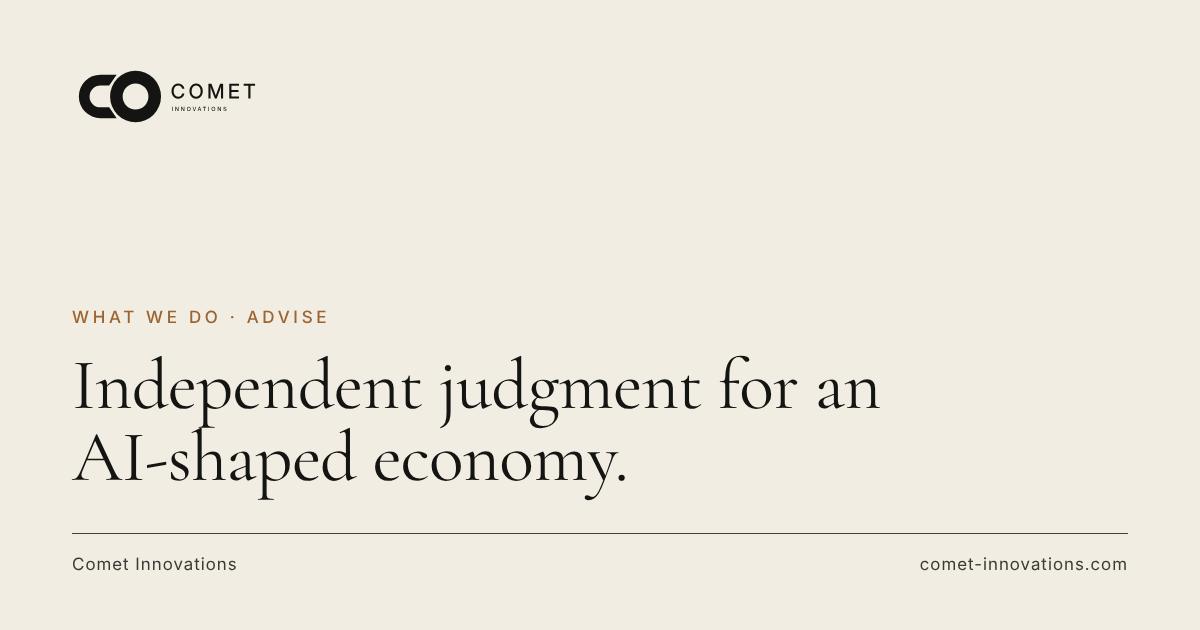
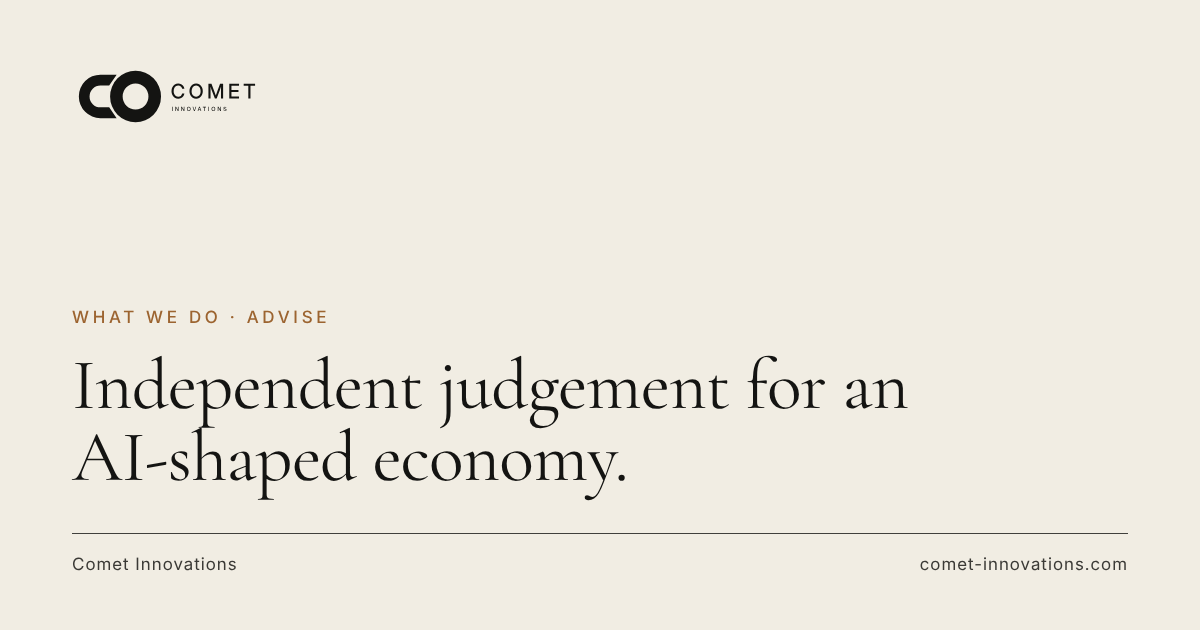
Standardise on British English across the website
- "judgment" becomes "judgement" on the homepage, What We Do and Advise
  (including the Advise share image), "percent" becomes "per cent" and
  "toward" becomes "towards" in the Insights.
- A test now fails the build on common American spellings in visible
  copy and llms.txt.
- CLAUDE.md records the site's editorial rules, starting with British
  English as standard.

Claude-Session: https://claude.ai/code/session_01S63pzjcwrUnhiZ14qCX8BA

Changed region(s): [[0.4625, 0.5429, 0.7708, 0.6635]]

diff --git a/src/pages/index.html b/src/pages/index.html
@@ -37,7 +37,7 @@
 <h2 class="section-title" id="services-title">Three ways to work with Comet.</h2>
 <p class="section-intro">Different challenges require different forms of expertise. Our three services are independently available and can be combined where the work demands it.</p>
 <div class="cards3 cards-text services">
-<article class="card reveal"><h3>Advise</h3><p class="card-lead">Independent judgment for consequential decisions.</p><p>We advise boards, investors and executive teams on the strategic and economic implications of AI.</p><p>From business model innovation and enterprise AI strategy to operating model transformation and new venture development, we help leaders understand their options, make informed choices and define the path forward.</p><p class="card-action"><a class="link" href="/advise">Explore Advisory</a></p></article>
+<article class="card reveal"><h3>Advise</h3><p class="card-lead">Independent judgement for consequential decisions.</p><p>We advise boards, investors and executive teams on the strategic and economic implications of AI.</p><p>From business model innovation and enterprise AI strategy to operating model transformation and new venture development, we help leaders understand their options, make informed choices and define the path forward.</p><p class="card-action"><a class="link" href="/advise">Explore Advisory</a></p></article>
 <article class="card reveal"><h3>Educate</h3><p class="card-lead">Develop the leaders the AI economy demands.</p><p>We design and deliver executive education experiences that help boards, executive committees and leadership teams understand AI, challenge established assumptions and strengthen strategic decision-making.</p><p>Our programmes connect emerging technology with the realities of leadership, business performance and organisational change.</p><p class="card-action"><a class="link" href="/what-we-do#educate">Explore Executive Education</a></p></article>
 <article class="card reveal"><h3>Engineer</h3><p class="card-lead">Engineering that works inside the business.</p><p>Our forward-deployed engineering approach places AI engineering expertise close to the business problem.</p><p>We work alongside client teams to design, develop, integrate and operationalise AI systems, from intelligent workflows and enterprise agents to AI-enabled products and new digital businesses.</p><p class="card-action"><a class="link" href="/what-we-do#engineer">Explore Engineering</a></p></article>
 </div>
@@ -80,7 +80,7 @@
 <p>Our approach is grounded in three principles.</p>
 <div class="principles">
 <div class="reveal"><h3>Business before technology.</h3><p>The relevance of AI is determined by the business problem, not the sophistication of the model.</p></div>
-<div class="reveal"><h3>Independence of judgment.</h3><p>We evaluate opportunities, technologies and solutions against client objectives rather than promote a predetermined platform.</p></div>
+<div class="reveal"><h3>Independence of judgement.</h3><p>We evaluate opportunities, technologies and solutions against client objectives rather than promote a predetermined platform.</p></div>
 <div class="reveal"><h3>Close to operating reality.</h3><p>Our perspective combines strategic advisory, business operating experience and applied engineering. We understand that recommendations must withstand commercial, organisational and technical constraints.</p></div>
 </div>
 </div>

diff --git a/test/site.test.js b/test/site.test.js
@@ -66,11 +66,11 @@ test('the home page uses the revised copy: three services, three markets, one fr
     'Explore Our Services', 'Start a Conversation',
     'The opportunity is bigger than technology.',
     'Three ways to work with Comet.',
-    'Independent judgment for consequential decisions.', 'Develop the leaders the AI economy demands.', 'Engineering that works inside the business.',
+    'Independent judgement for consequential decisions.', 'Develop the leaders the AI economy demands.', 'Engineering that works inside the business.',
     'Where we focus.', 'Private Equity', 'Government', 'Energy',
     'AI is changing the fundamentals of business.',
     'How do you create and capture value?', 'How should work be performed?', 'How should the organisation operate?', 'What becomes possible next?',
-    'From understanding to action.', 'Business before technology.', 'Independence of judgment.', 'Close to operating reality.',
+    'From understanding to action.', 'Business before technology.', 'Independence of judgement.', 'Close to operating reality.',
     'Thinking matters. What changes matters more.',
     'Beyond intelligent responses.',
     'Ideas for decisions that matter.',
@@ -108,7 +108,7 @@ test('What We Do presents three independent services, the framework and venture 
 test('Advise is a service page linked from the navigation, home and What We Do', () => {
   const page = text('advise.html');
   for (const line of [
-    'Independent judgment for an AI-shaped economy.',
+    'Independent judgement for an AI-shaped economy.',
     'Strategic questions, not technology prescriptions.',
     'Our advice is independent of any particular AI model, software vendor or implementation platform.',
     'AI strategy and investment priorities', 'Business model and value creation', 'Operating model transformation',
@@ -478,6 +478,15 @@ test('key concepts are defined in visible HTML, consistently', () => {
   assert.ok(/Agentic AI describes AI systems/.test(text('work-redesign.html')));
   for (const term of ['Corporate innovation', 'Venture validation', 'Venture building', 'Venture acceleration']) assert.ok(html('venture-building.html').includes(`<dt>${term}</dt>`), term);
   for (const term of ['Task automation', 'Workflow redesign', 'AI agents and agentic AI', 'Workforce transformation', 'Capability building']) assert.ok(html('work-redesign.html').includes(`<dt>${term}</dt>`), term);
+});
+
+test('British English is used throughout the visible copy', () => {
+  const american = /\b(judgment|judgments|percent|toward|afterward|color|colors|center|centered|behavior|behaviors|favor|favorite|honor|labor|analyze|analyzed|catalog|defense|fulfill|enroll|modeling|modeled|traveled|organizational|organization|organizations|optimize|optimized|optimizing|prioritize|prioritized|prioritizing|recognize|recognized|realize|realized|utilize|utilized|specialize|specialized|standardize|minimize|maximize|summarize|emphasize|program|programs)\b/i;
+  for (const page of pages) {
+    const match = text(page).match(american);
+    assert.equal(match, null, `${page}: "${match?.[0]}"`);
+  }
+  assert.doesNotMatch(fs.readFileSync(path.join(out, 'llms.txt'), 'utf8'), american);
 });
 
 test('no conflicting company descriptions or unsupported superlatives', () => {

diff --git a/src/pages/advise.html b/src/pages/advise.html
@@ -1,8 +1,8 @@
-<!--meta {"title": "AI Strategy & Advisory Services | Comet Innovations", "description": "Independent, senior-led AI advisory for boards and executives: AI strategy, business models, operating models, governance and corporate venture strategy.", "heading": "Advise", "breadcrumb": "Advise", "parent": {"name": "What we do", "path": "/what-we-do"}, "intent": {"primary": "AI strategy consulting", "secondary": ["AI advisory services", "independent AI advisory", "AI governance advisory", "AI investment strategy"]}, "ogImage": "/images/og/advise.png", "ogHeadline": "Independent judgment for an AI-shaped economy.", "updated": "2026-10-25", "schema": ["service"], "service": {"name": "AI strategy and advisory", "serviceType": "AI strategy consulting", "description": "Independent, senior-led advisory for boards and executive teams on AI strategy and investment priorities, business model and value creation, operating model transformation, AI governance, corporate venture strategy and portfolio transformation."}} -->
+<!--meta {"title": "AI Strategy & Advisory Services | Comet Innovations", "description": "Independent, senior-led AI advisory for boards and executives: AI strategy, business models, operating models, governance and corporate venture strategy.", "heading": "Advise", "breadcrumb": "Advise", "parent": {"name": "What we do", "path": "/what-we-do"}, "intent": {"primary": "AI strategy consulting", "secondary": ["AI advisory services", "independent AI advisory", "AI governance advisory", "AI investment strategy"]}, "ogImage": "/images/og/advise.png", "ogHeadline": "Independent judgement for an AI-shaped economy.", "updated": "2026-10-25", "schema": ["service"], "service": {"name": "AI strategy and advisory", "serviceType": "AI strategy consulting", "description": "Independent, senior-led advisory for boards and executive teams on AI strategy and investment priorities, business model and value creation, operating model transformation, AI governance, corporate venture strategy and portfolio transformation."}} -->
 <section class="page-hero"><div class="shell">
 <nav class="breadcrumb" aria-label="Breadcrumb"><a href="/what-we-do">What we do</a><span aria-hidden="true">/</span><span aria-current="page">Advise</span></nav>
 <h1>Advise</h1>
-<h2 class="lead-statement">Independent judgment for an AI-shaped economy.</h2>
+<h2 class="lead-statement">Independent judgement for an AI-shaped economy.</h2>
 <p>Artificial intelligence is changing the assumptions on which strategies, investment decisions and operating models have been built.</p>
 <p>For boards and executive teams, the challenge is separating technological possibility from genuine economic opportunity.</p>
 <p>We provide independent, senior-led advisory services that connect the capabilities of AI with business strategy, competitive positioning and organisational performance.</p>

diff --git a/src/pages/what-we-do.html b/src/pages/what-we-do.html
@@ -5,7 +5,7 @@
 <p class="hero-tagline">Three independent services for organisations navigating the AI economy.</p>
 <p>Comet brings together strategic advisory, executive education and forward-deployed engineering.</p>
 <p>Each service addresses a distinct client need and can be commissioned independently.</p>
-<p>Some engagements require strategic judgment. Others require leadership development. Others require engineers capable of building working systems in complex operating environments.</p>
+<p>Some engagements require strategic judgement. Others require leadership development. Others require engineers capable of building working systems in complex operating environments.</p>
 <p>We work in the form that best serves the objective.</p>
 </div></section>
 
@@ -26,7 +26,7 @@
 <div class="copy">
 <h3 class="lead">Leadership capability for an AI-shaped future.</h3>
 <p>AI is changing the information available to executives, the speed at which options can be explored and the nature of decisions leaders must make.</p>
-<p>Our executive education programmes help leadership teams develop the understanding and judgment required to navigate these changes.</p>
+<p>Our executive education programmes help leadership teams develop the understanding and judgement required to navigate these changes.</p>
 <p>We combine strategic perspectives, practical applications, facilitated discussion and real business challenges.</p>
 <p>Programmes are designed for boards, executive committees, senior management teams and leadership academies.</p>
 </div>

diff --git a/src/partials/diagrams/efficiency-vs-redesign.html b/src/partials/diagrams/efficiency-vs-redesign.html
@@ -4,7 +4,7 @@
     <div class="workflow-marks" aria-hidden="true"><i></i><i></i><i></i><i></i><i></i><i></i><i></i><i></i><i></i><i></i></div>
   </div>
   <div class="workflow-row">
-    <p class="workflow-label"><span class="eyebrow">Efficiency programme</span>Reducing the effort by 15 percent</p>
+    <p class="workflow-label"><span class="eyebrow">Efficiency programme</span>Reducing the effort by 15 per cent</p>
     <div class="workflow-marks workflow-trimmed" aria-hidden="true"><i></i><i></i><i></i><i></i><i></i><i></i><i></i><i></i><i class="part"></i><i class="gone"></i></div>
   </div>
   <div class="workflow-row">

diff --git a/src/insights/where-is-ai-changing-your-economics.md b/src/insights/where-is-ai-changing-your-economics.md
@@ -64,13 +64,13 @@ Many of the first benefits of generative AI are productivity benefits.
 | A customer service agent handles more cases.
 | A marketing team produces more content.
 
-These improvements can be valuable. But making an existing activity 20 percent more efficient does not necessarily change the economics of the business.
+These improvements can be valuable. But making an existing activity 20 per cent more efficient does not necessarily change the economics of the business.
 
 > Transformation begins when the economics move enough to require a different answer.
 
 Consider a workflow that historically required ten people.
 
-Reducing the effort by 15 percent is an efficiency programme.
+Reducing the effort by 15 per cent is an efficiency programme.
 
 Redesigning the workflow so that AI performs most of the coordination, analysis and execution while three people provide judgement and exception management is an operating model question.
 

diff --git a/CLAUDE.md b/CLAUDE.md
@@ -1,0 +1,7 @@
+# Editorial rules for the Comet Innovations website
+
+- **British English is standard across the website**: judgement, organisation, prioritise, programme, per cent, towards. `npm test` fails on common American spellings in visible copy and llms.txt. Schema.org vocabulary (`Organization`, `#organization`) is exempt.
+- Use em dashes (—), never double hyphens. Avoid repetitive rhetorical structures such as "not x, not y, but z".
+- Publish approved copy as supplied apart from spelling standardisation; never invent client names, results, legal facts or team members, and never publish placeholders.
+- Wherever the Four Fundamentals framework is presented, include `{{> framework-notice}}` (or `"frameworkNotice": true` in an Insight's front matter).
+- London is the only office.

diff --git a/src/insights/the-four-fundamentals.md b/src/insights/the-four-fundamentals.md
@@ -89,7 +89,7 @@ Most organisations are structured around assumptions about human labour.
 
 Software has historically automated individual steps. AI increasingly affects the connective tissue between them.
 
-This means the unit of analysis should move from task automation toward [workflow redesign](/work-redesign).
+This means the unit of analysis should move from task automation towards [workflow redesign](/work-redesign).
 
 Leadership teams should ask:
 
